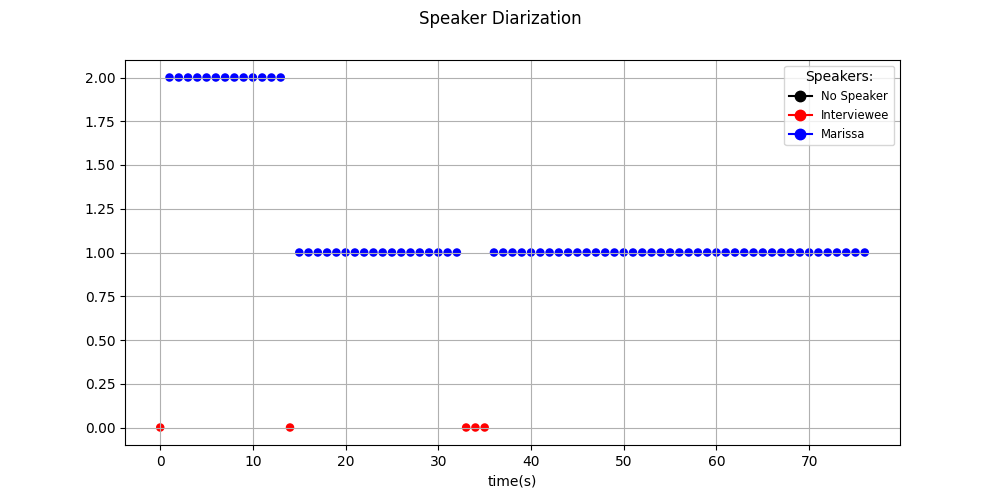
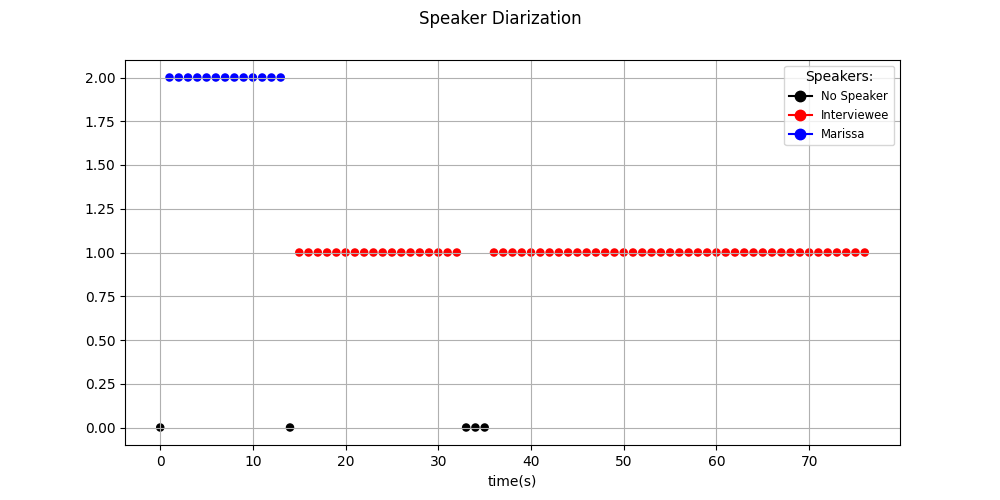
fixed plot + saved animation as mp4

diff --git a/visualization.py b/visualization.py
@@ -9,7 +9,6 @@ import sounddevice as sd
 import matplotlib.lines as mlines
 from matplotlib import colors as mlpColors
 
-
 _default_colors = plt.rcParams["axes.prop_cycle"].by_key()["color"]
 
 
@@ -21,7 +20,7 @@ class Vizualization:
         self.times_list = []
         self.data_arr = data_arr
 
-    def play_wav(self,  blocking=True):
+    def play_wav(self, blocking=True):
         try:
             # Small bug with sounddevice.play: the audio is cut 0.5 second too early. so we pad it
             # Convert self.wav to a NumPy array
@@ -30,7 +29,7 @@ class Vizualization:
 
             # Concatenate zeros to the waveform
             zeros = np.zeros(self.SAMPLE_RATE // 2, dtype=np.int16)
-            data= np.concatenate((data, zeros))
+            data = np.concatenate((data, zeros))
 
             # Play the audio using sd.play()
             sd.play(data, self.SAMPLE_RATE, blocking=blocking)
@@ -38,33 +37,11 @@ class Vizualization:
         except Exception as e:
             print("Failed to play audio: %s" % repr(e))
 
-    # def diarization_for_plot(self, gen_diarization):
-    #     final_list = []
-    #     max_diar = len(gen_diarization)
-    #     times = np.arange(0, gen_diarization[-1][1], 1)  # arr from 0 to end of audio
-    #     #print(times)
-    #     j = 0
-    #     for i in range(len(times)):
-    #         if j < max_diar:
-    #             if gen_diarization[j][0] < times[i] < gen_diarization[j][1]:
-    #                 if gen_diarization[j][2] == "SPEAKER_00":
-    #                     final_list.append(0)
-    #                 else:
-    #                     final_list.append(1)
-    #             # elif times[i] > gen_diarization[j][1] and j + 1 < max_diar and times[i] < gen_diarization[j+1][0]:
-    #             #     final_list.append(0)
-    #             elif times[i]<gen_diarization[j][0]:  # no speaker
-    #                 j += 0
-    #             else:  # no speaker
-    #                 j += 1
-    #     self.times_list = final_list
-    #     return final_list
-
     def diarization_for_plot1(self, gen_diarization):
         final_list = []
         max_diar = len(gen_diarization)
         times = np.arange(0, gen_diarization[-1][1], 1)  # arr from 0 to end of audio
-        #print(times.shape)
+        # print(times.shape)
         j = 0
         for i in range(len(times)):
             if j < max_diar:
@@ -74,78 +51,52 @@ class Vizualization:
                     else:
                         final_list.append(2)
 
-                elif times[i]>gen_diarization[j][1]: # no speaker
+                elif times[i] > gen_diarization[j][1]:  # no speaker
                     final_list.append(0)
                     j += 1
                 else:
                     final_list.append(0)
         return final_list
 
-
     def plot_diarization(self, final_list, path):
+
         times = np.arange(0, len(final_list), 1)  # arr from 0 to end of audio
 
         fig, ax = plt.subplots(figsize=(10, 5))
         fig.suptitle('Speaker Diarization')
-        colors = ['black', 'red', 'blue']
-        T = TypeVar('T', int, float)  # Create a generic type variable
-        levels: Iterable[T] = [0,1,2]  # Use the generic type variable T
+
+        color_dict = {
+            0: ('black', 'No Speaker'),
+            1: ('red', 'Interviewee'),
+            2: ('blue', 'Marissa')
+        }
+
+        colors = [color_dict[val][0] for val in final_list]
+        labels = [color_dict[val][1] for val in final_list]
+
         black_line = mlines.Line2D([], [], color='black', marker='.', markersize=15, label='No Speaker')
         red_line = mlines.Line2D([], [], color='red', marker='.', markersize=15, label='Interviewee')
         blue_line = mlines.Line2D([], [], color='blue', marker='.', markersize=15, label='Marissa')
 
         ax.legend(fontsize='small', title='Speakers:', handles=[black_line, red_line, blue_line])
 
-        cmap, norm = mlpColors.from_levels_and_colors(levels=levels, colors=colors, extend='max')
-        timeDiffInt = np.where(np.array(final_list) ==  0, 1,2)
-        ax.scatter(times, final_list, c=timeDiffInt, s=150, marker='.', edgecolor='none', cmap=cmap, norm=norm,
-                   label=("No Speaker", "Marissa", "Interviewee"))  #
+        T = TypeVar('T', int, float)  # Create a generic type variable
+        levels: Iterable[T] = [0, 1, 2]  # Use the generic type variable T
+        cmap, norm = mlpColors.from_levels_and_colors(levels=levels, colors=['black', 'red', 'blue'], extend='max')
+
+        ax.scatter(times, final_list, c=colors, s=150, marker='.', edgecolor='none', cmap=cmap, norm=norm, label=labels)
+
         plt.xlabel('time(s)')
         plt.grid()
         plt.savefig(path + 'diarization.png')
         plt.show()
-
         return
-
-
-
-    # def plot_animation(self, final_list, path):
-    #     #data generator
-    #     data = np.random.random((100,))
-    #
-    #     #setup figure
-    #     fig = plt.figure(figsize=(5,4))
-    #     ax = fig.add_subplot(1,1,1)
-    #
-    #     #rolling window size
-    #     repeat_length = 25
-    #
-    #     ax.set_xlim([0,repeat_length])
-    #     ax.set_ylim([-2,2])
-    #
-    #
-    #     #set figure to be modified
-    #     im, = ax.plot([], [])
-    #
-    #     def func(n):
-    #         im.set_xdata(np.arange(n)) # time in secs
-    #         im.set_ydata(final_list[0:n])
-    #         if n>repeat_length:
-    #             lim = ax.set_xlim(n-repeat_length, n)
-    #         else:
-    #             lim = ax.set_xlim(0,repeat_length)
-    #         return im
-    #
-    #     ani = animation.FuncAnimation(fig, func, frames=data.shape[0], interval=30, blit=False)
-    #
-    #     plt.show()
-    #
-    #     ani.save(path+'animation.gif',writer='pillow', fps=30)
 
     def plot_animation2(self, final_list, path):
         # Load the audio
+        import moviepy.editor as mpy
         audio = self.audio
-        audio_duration = len(audio) / self.SAMPLE_RATE
+        audio_duration = len(audio)  # / self.SAMPLE_RATE
 
         # Setup figure and animation parameters
         fig = plt.figure(figsize=(6, 4))
@@ -160,8 +111,11 @@ class Vizualization:
         ax.set_ylabel("speaker")
 
         # Define the animation update function
+        frames = []
+
         def update_animation(frame):
             # Calculate the time in seconds for the current frame
+            frames.append(frame)
             time = frame / audio_duration
 
             # Set the animation data
@@ -174,25 +128,20 @@ class Vizualization:
             else:
                 lim = ax.set_xlim(0, repeat_length)
 
-                # Add labels on the top corner
-            # ax.text(0.95, 0.95, "No speaker = -1", transform=ax.transAxes, horizontalalignment='right', verticalalignment='top')
-            # ax.text(0.95, 0.90, "Speaker 1 = 0", transform=ax.transAxes, horizontalalignment='right', verticalalignment='top')
-            # ax.text(0.95, 0.85, "Speaker 2 = 1", transform=ax.transAxes, horizontalalignment='right', verticalalignment='top')
+            # Add labels on the top corner
             ax.legend(fontsize='small', title='Speakers:',
                       labels=["No Speaker = 0\nSpeaker 1 = 1\nSpeaker 2 = 2"])
-
-
             return im
 
         # Calculate the frame duration in milliseconds
-        frame_duration = 2000
+        frame_duration = 1000
 
-        # Create the animation
-        ani = animation.FuncAnimation(fig, update_animation, frames=int(len(audio)/self.SAMPLE_RATE), interval=frame_duration, blit=False)
-
+        # Create the animations
+        ani = animation.FuncAnimation(fig, update_animation, frames=int(len(audio)), interval=frame_duration,
+                                      blit=False)
 
         # Play the audio in the background
-        #sd.play(audio, self.SAMPLE_RATE, blocking=False)
+        # sd.play(audio, self.SAMPLE_RATE, blocking=False)
 
         self.play_wav(audio)
 
@@ -200,5 +149,13 @@ class Vizualization:
         plt.show()
 
         # Save the animation as a GIF
-        ani.save(path+'animation2.gif', writer='pillow', fps=30)
+        ani.save(path + 'animation2.gif', writer='pillow')
 
+    def create_vid_from_gif(self, gif_path, out_path):
+        import moviepy.editor as mp
+
+        clip = mp.VideoFileClip(gif_path)
+        # vid = clip.write_videofile("myvideo.mp4")
+        video = clip.set_audio(mp.AudioFileClip(self.wav))
+        # fps = 30
+        video.write_videofile(out_path)

diff --git a/main.py b/main.py
@@ -149,6 +149,7 @@ if __name__ == '__main__':
     # wav_file = 'E:/myFolder/uni/masters/2nd_semestru/human_behavior_lab/noise_clean_recordings/1_TB_SUBJECT.wav'
     # convert_mp4_to_wav(mp4_file, wav_file)
 
+
     file_name = "11_TB_Subject_1"
     wav1 = "E:/myFolder/uni/masters/2nd_semestru/human_behavior_lab/noise_clean_recordings/11_TB_Subject_1.wav"
     print("diarizing: " + wav1)
@@ -162,14 +163,14 @@ if __name__ == '__main__':
 
     visual = visualization.Vizualization(wav1, sampling_rate, data, channel)
 
+    # diarization = Diarization(wav1)
+    # diarization_smooth, raw_diarization = diarization.legal_diarization_smoothing()
+    # # pyannote_diarization_csv(diarization_smooth, path='results/'+file_name)
+    #
+    #
+    # list_speaker_times = visual.diarization_for_plot1(diarization_smooth)
+    # visual.plot_diarization(list_speaker_times, path='visual_outputs/' + file_name)
+    # visual.plot_animation2(list_speaker_times,
+    #                        path='visual_outputs/' + file_name)  # Animation with background audio, works with diarization_for_plot1
 
-    diarization = Diarization(wav1)
-    diarization_smooth, raw_diarization = diarization.legal_diarization_smoothing()
-    # pyannote_diarization_csv(diarization_smooth, path='results/'+file_name)
-
-
-
-    list_speaker_times = visual.diarization_for_plot1(diarization_smooth)
-    visual.plot_diarization(list_speaker_times, path='visual_outputs/' + file_name)
-    visual.plot_animation2(list_speaker_times,
-                           path='visual_outputs/' + file_name)  # Animation with background audio, works with diarization_for_plot1
+    visual.create_vid_from_gif('visual_outputs/'+file_name+'animation2.gif', "visual_outputs/"+file_name+".mp4")
